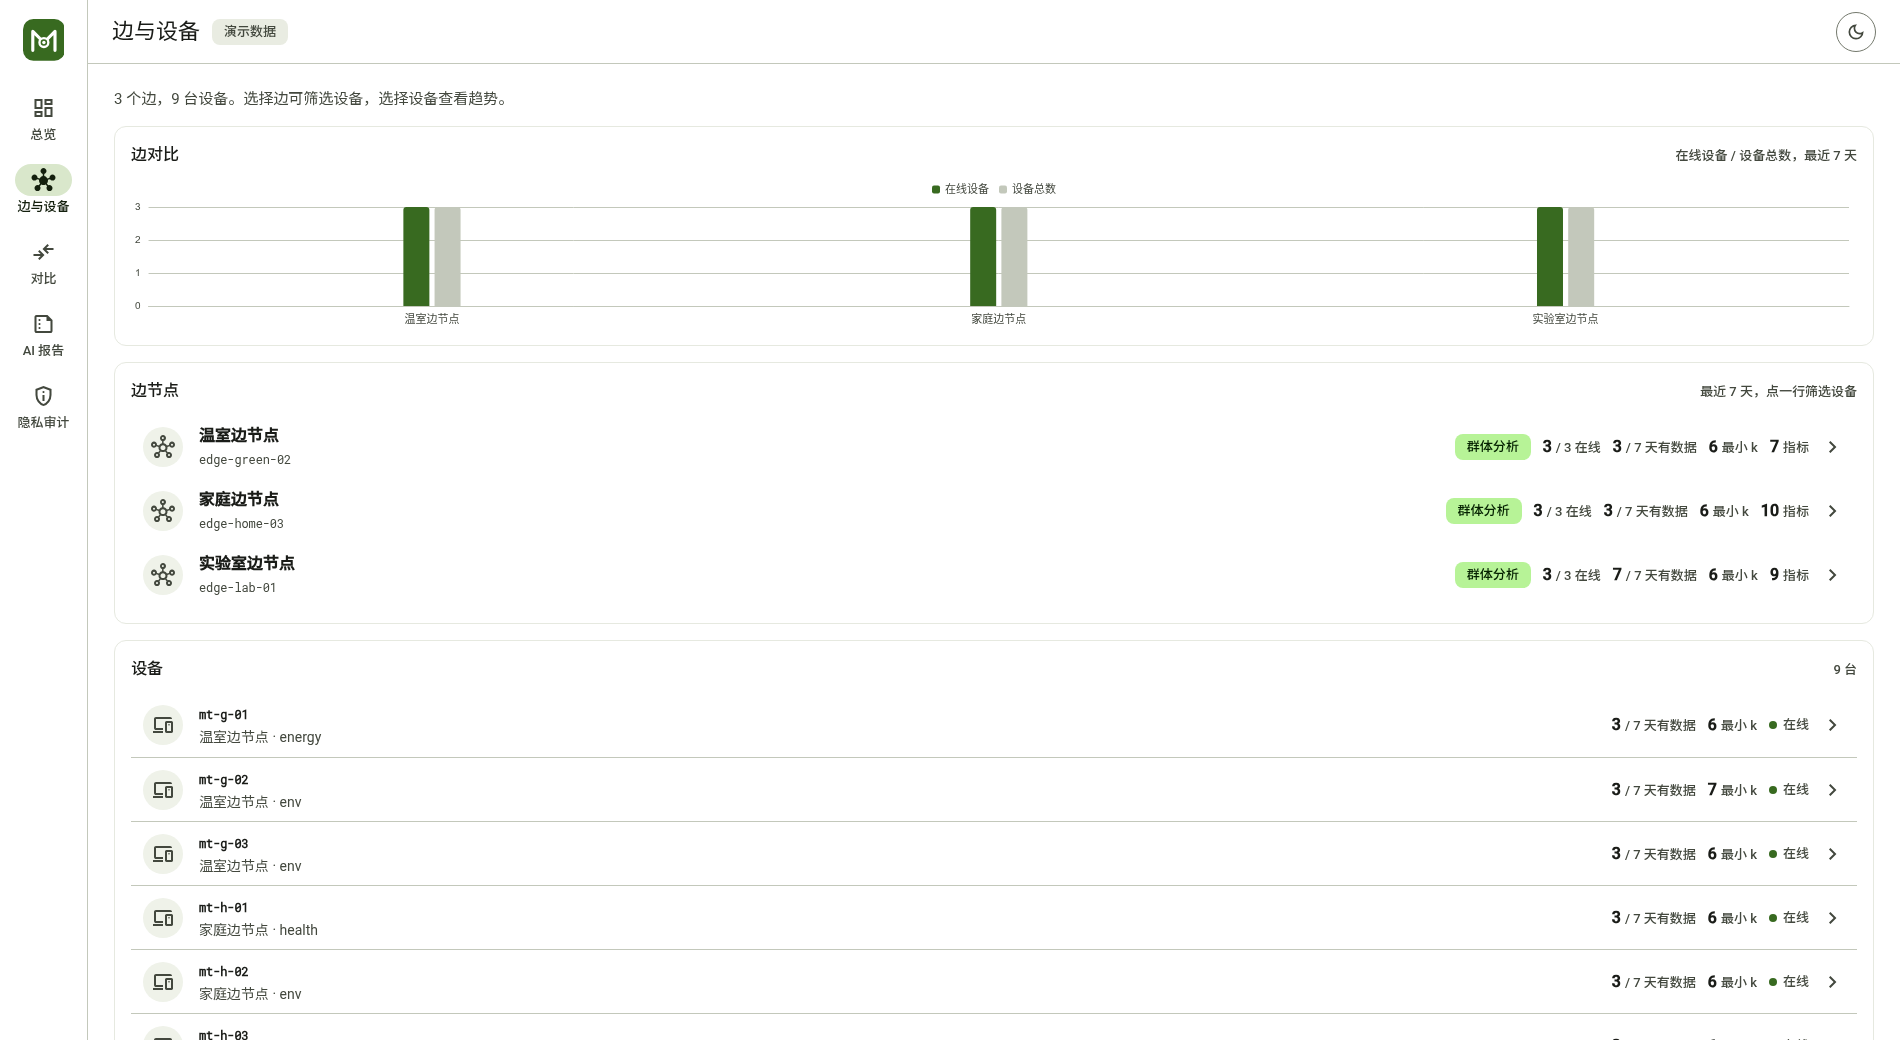
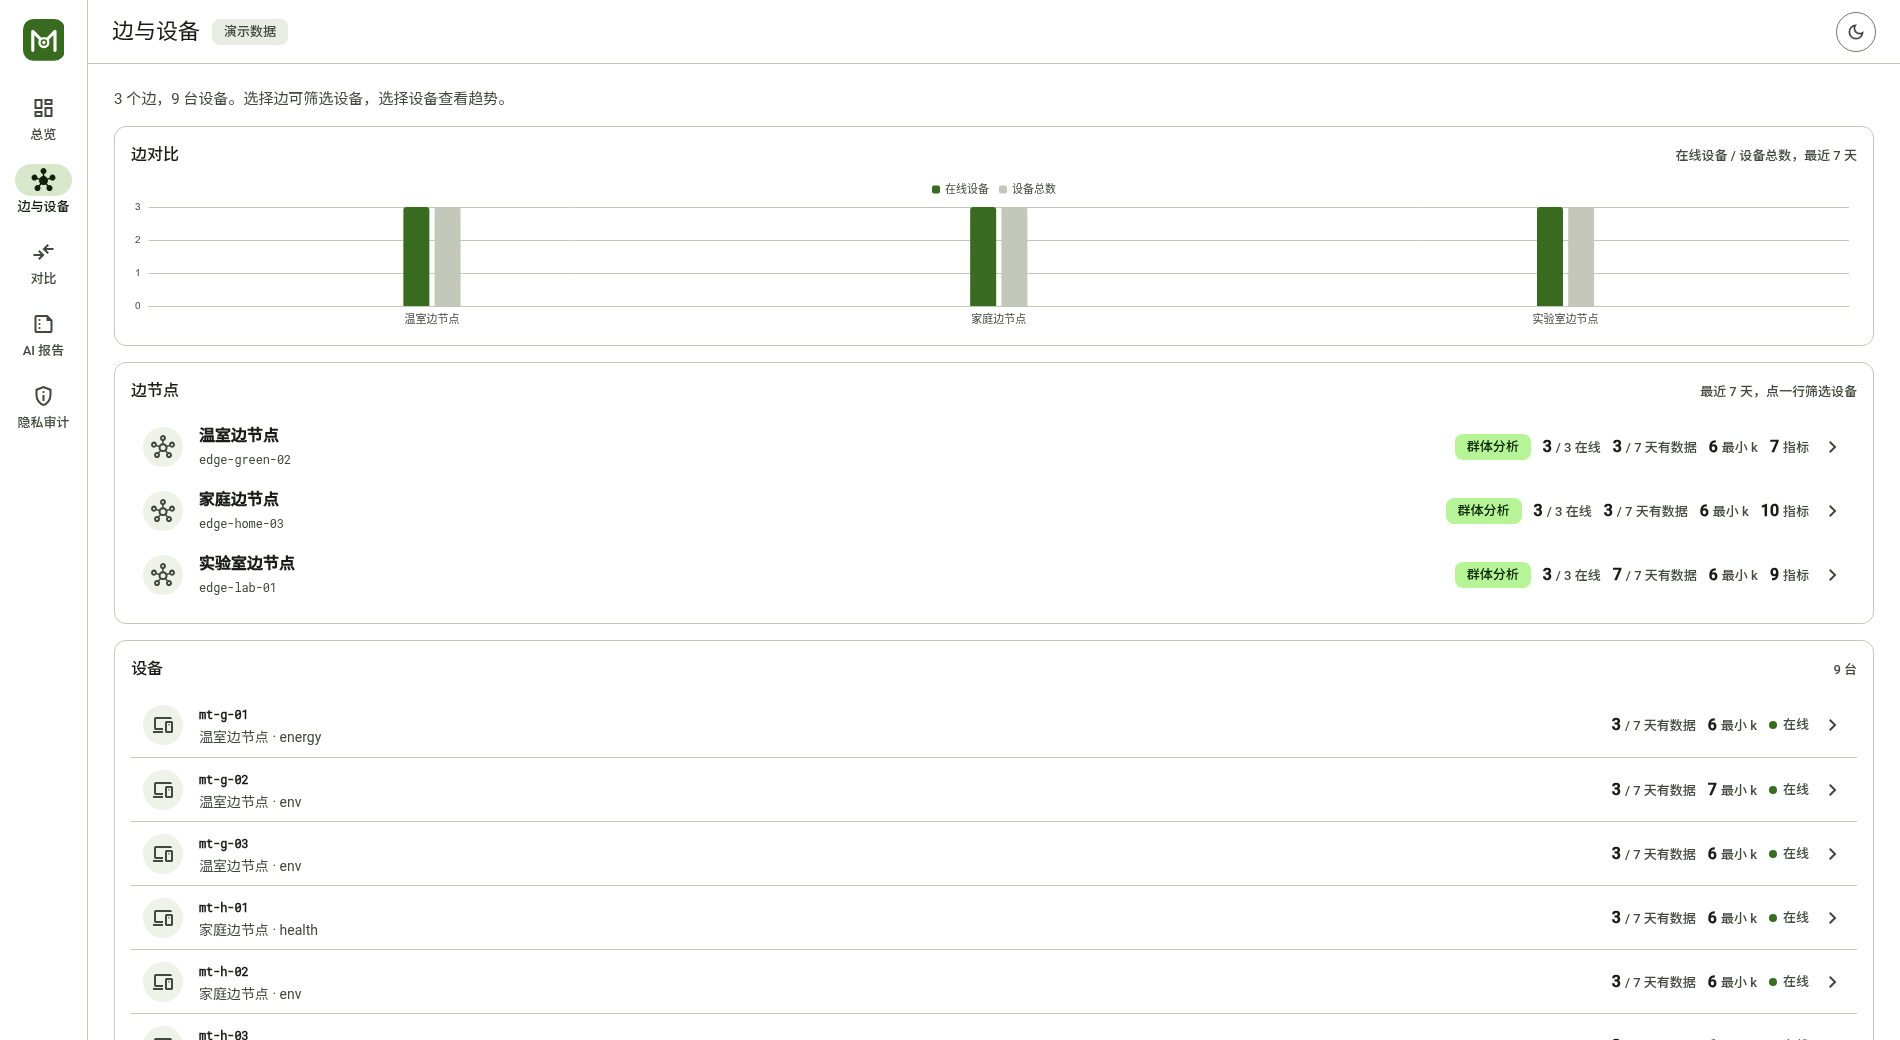
fix(web): 亮色卡片描边回到 token，index.html 不再吃缓存 (#20)
- 亮色卡片描边 #e6e9e0（1.23:1，硬编码）换成 outline-variant #c3c8bb
  （1.71:1，M3 outlined card 的规范值）；--md-card-bg 改回
  var(--md-surface-container-low)
- 暗色保持 filled 卡（描边透明）
- Caddyfile.web 给 index.html 发 no-cache、/assets/* 发 immutable：
  之前没有缓存头，旧标签页会停在上一版
- 主题图标按主题重建并淡入 160 ms

diff --git a/web/src/styles/m3.css b/web/src/styles/m3.css
@@ -45,9 +45,9 @@
   --md-scrim: #000000;
   --md-shadow: #000000;
 
-  /* 组件别名：卡片纯白，靠 1px 描边和白色页面分开 */
-  --md-card-bg: #ffffff;
-  --md-card-border: #e6e9e0;
+  /* 组件别名：卡片纯白，靠 outline-variant 描边和白色页面分开 */
+  --md-card-bg: var(--md-surface-container-low);
+  --md-card-border: var(--md-outline-variant);
 
   /* ---- 严重度（只有异常才饱和） ---- */
   --md-ok: #386a20;
@@ -195,7 +195,8 @@
   --md-chart-cool: var(--md-tertiary);
   --md-chart-warm: var(--md-notice);
 
-  --md-card-bg: #141414;
+  /* 暗色靠色阶分层：卡片 #141414 对 #000 页面，不再描边 */
+  --md-card-bg: var(--md-surface-container-low);
   --md-card-border: transparent;
   --appbar-bg: var(--md-surface-container);
   --rail-bg: var(--md-surface-container);
@@ -819,7 +820,7 @@ h3 {
 }
 
 
-/* ---------------------------------------------------------------- 深色开关 */
+/* ---------------------------------------------------------------- 主题切换 */
 
 /* 主题切换：M3 outlined icon button，图标本身就是「切到哪边」 */
 .md-icon-outline {
@@ -842,6 +843,13 @@ h3 {
 }
 .md-icon-outline:active {
   background: color-mix(in srgb, var(--md-on-surface) 10%, transparent);
+}
+/* 换面时淡入 160 ms：图标瞬间切换容易被当成没点上 */
+@keyframes md-icon-in {
+  from { opacity: 0; }
+}
+.theme-toggle .ms-icon {
+  animation: md-icon-in 160ms var(--md-ease);
 }
 
 /* ---------------------------------------------------------------- 工具 */

diff --git a/web/src/App.vue b/web/src/App.vue
@@ -60,7 +60,7 @@ onMounted(async () => {
             :title="theme === 'dark' ? '切到亮色' : '切到暗色'"
             @click="toggleTheme"
           >
-            <Icon :name="theme === 'dark' ? 'light_mode' : 'dark_mode'" :size="20" />
+            <Icon :key="theme" :name="theme === 'dark' ? 'light_mode' : 'dark_mode'" :size="20" />
           </button>
         </div>
       </header>
